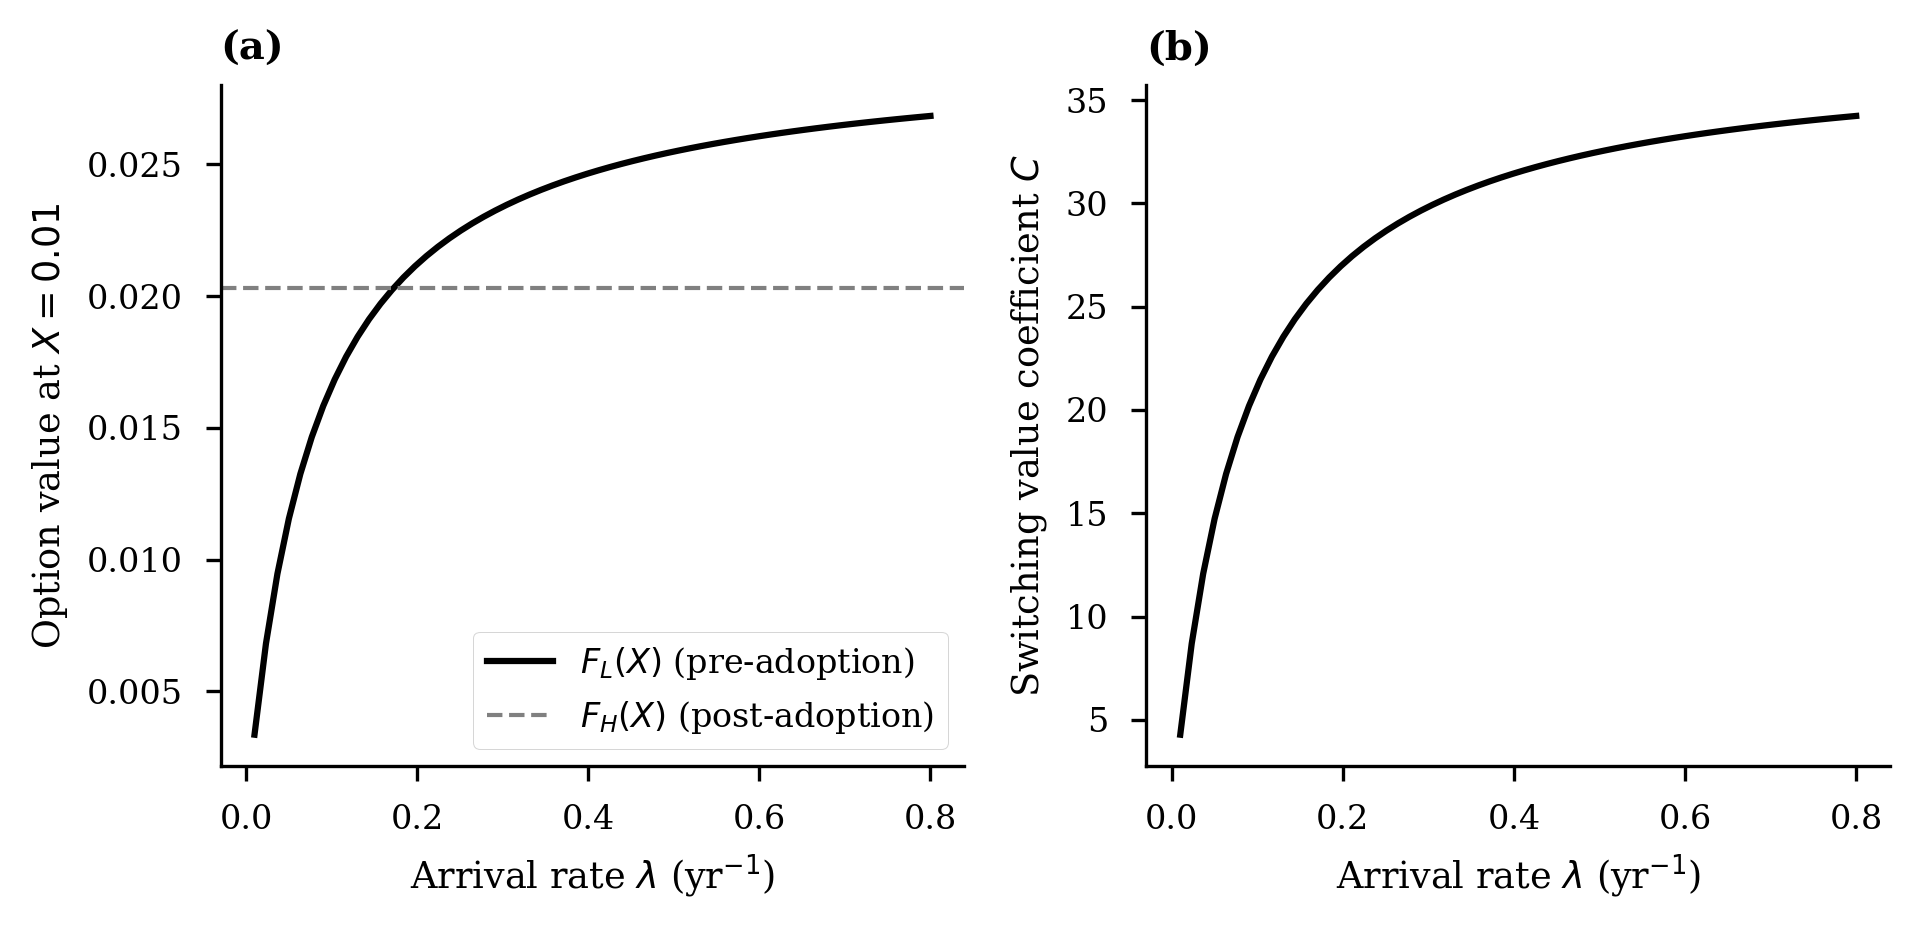
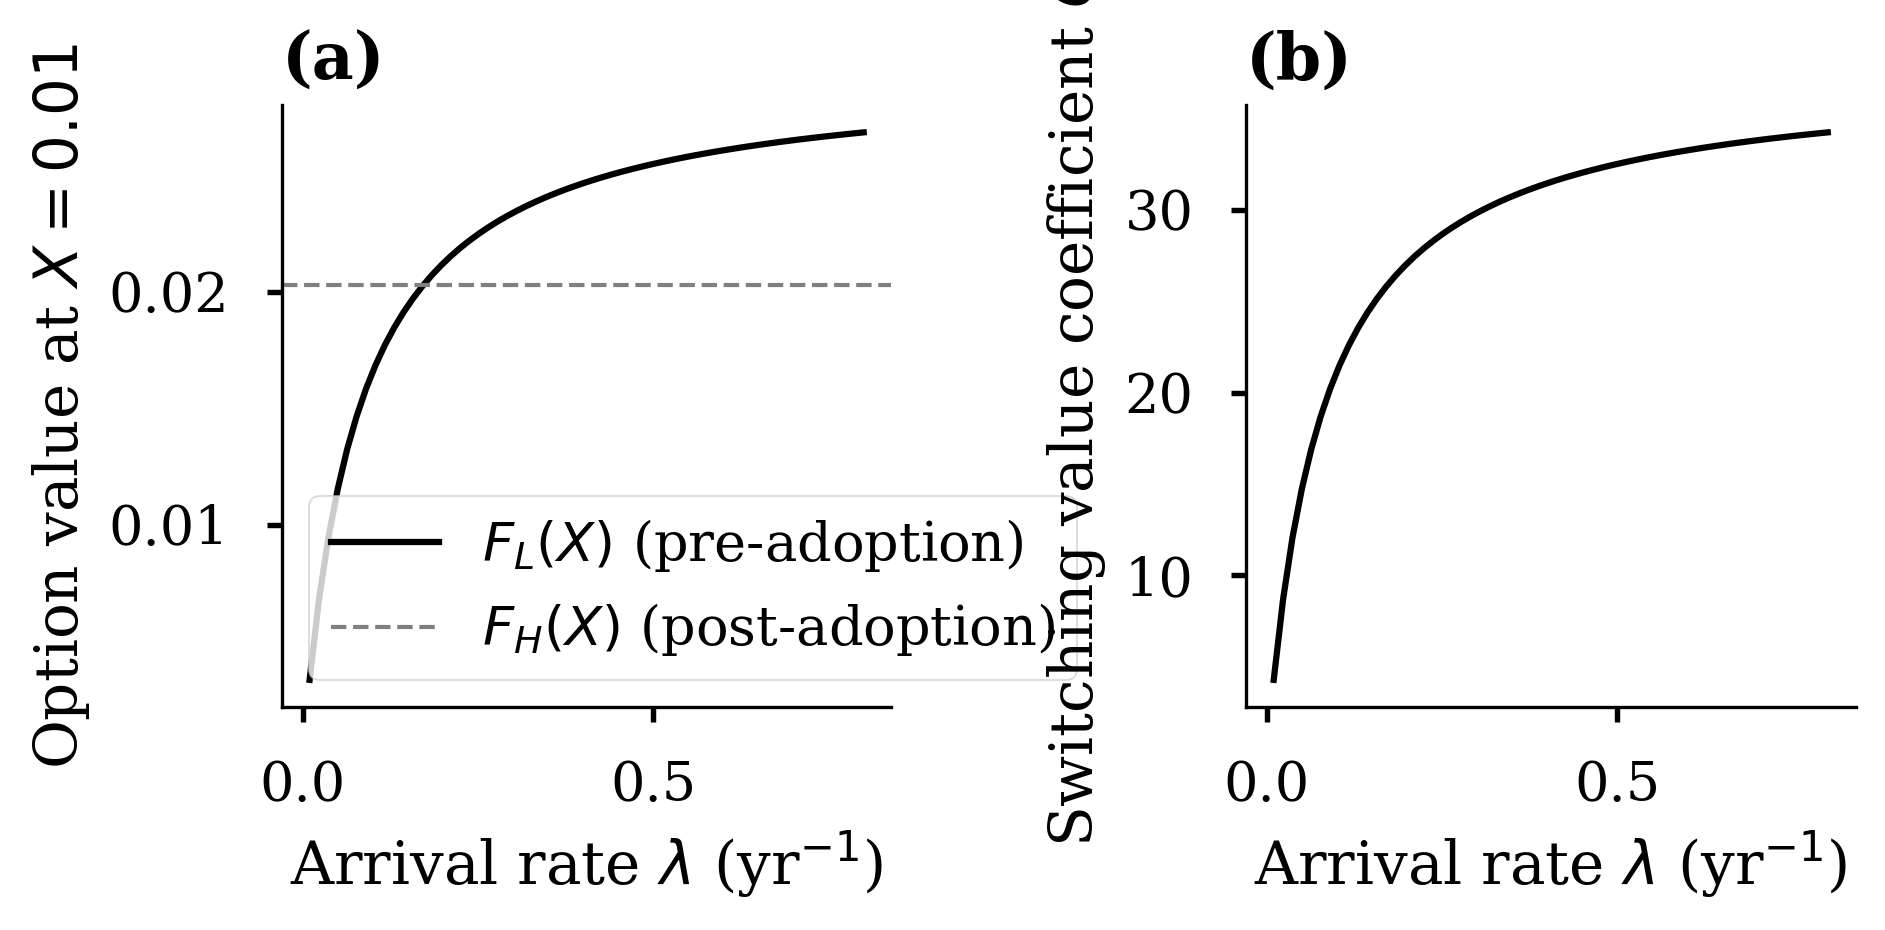
Fix PNG figure style: use seaborn-v0_8-talk base (not paper)
The docstring promised talk-style PNGs but line 74 used the paper
base style. Fix aligns code with docs and gives PNGs larger fonts
suitable for presentations.

diff --git a/paper/generate_figures.py b/paper/generate_figures.py
@@ -71,7 +71,7 @@ def _save(create_fn, name: str) -> None:
         fig.savefig(OUT / f"{name}.pdf")
         plt.close(fig)
 
-    with plt.style.context(["seaborn-v0_8-paper", _TALK_OVERRIDES]):
+    with plt.style.context(["seaborn-v0_8-talk", _TALK_OVERRIDES]):
         fig = create_fn()
         fig.savefig(OUT / f"{name}.png")
         plt.close(fig)
